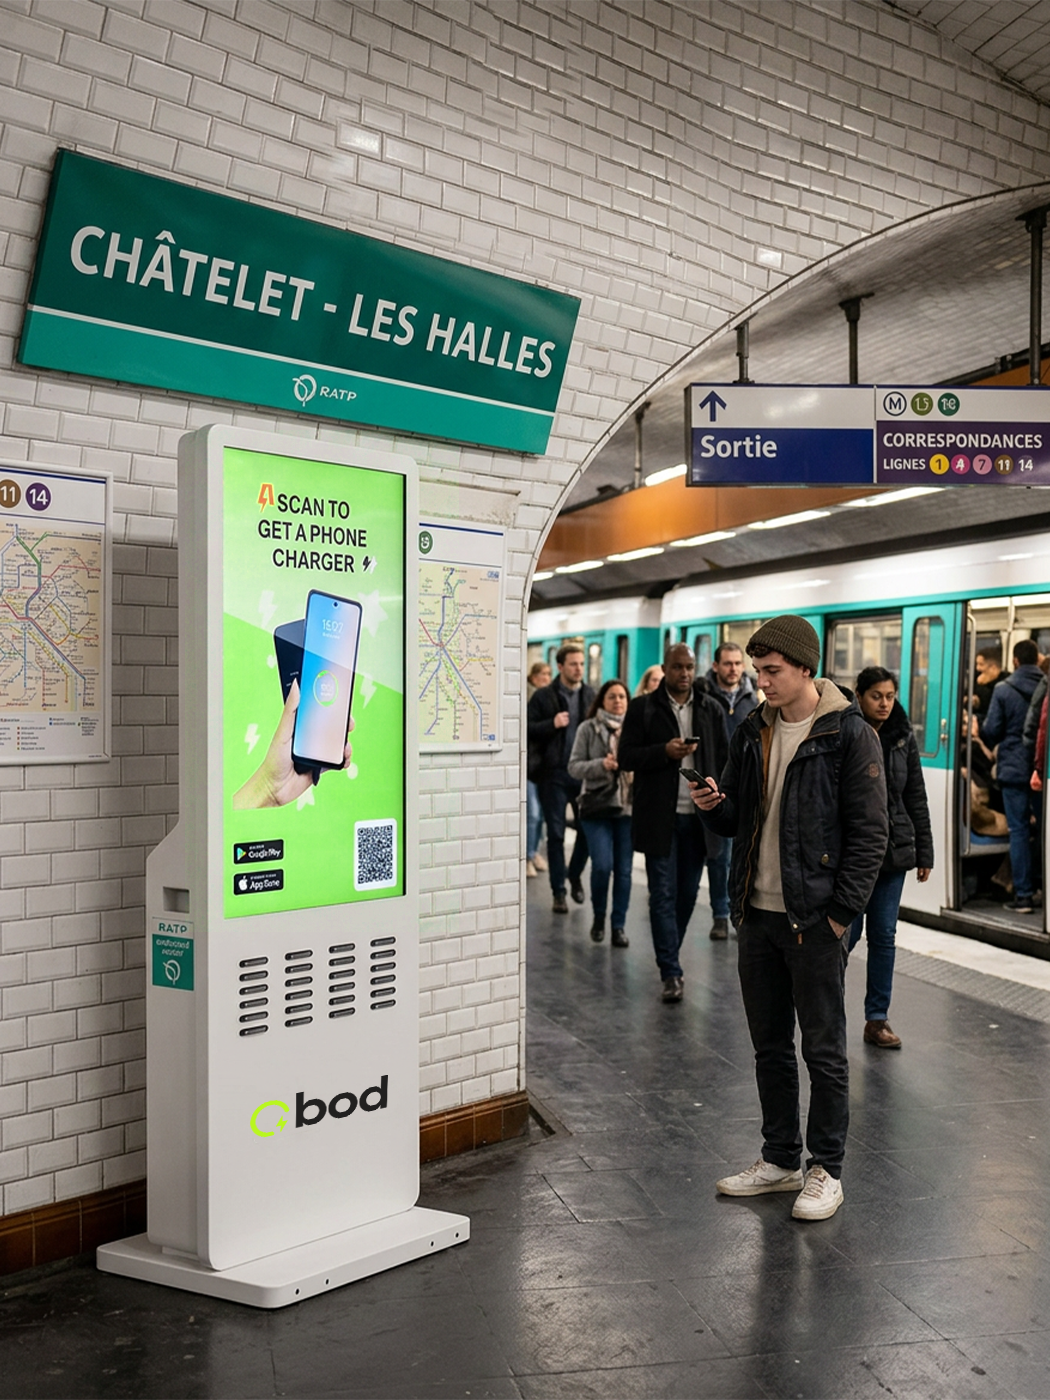
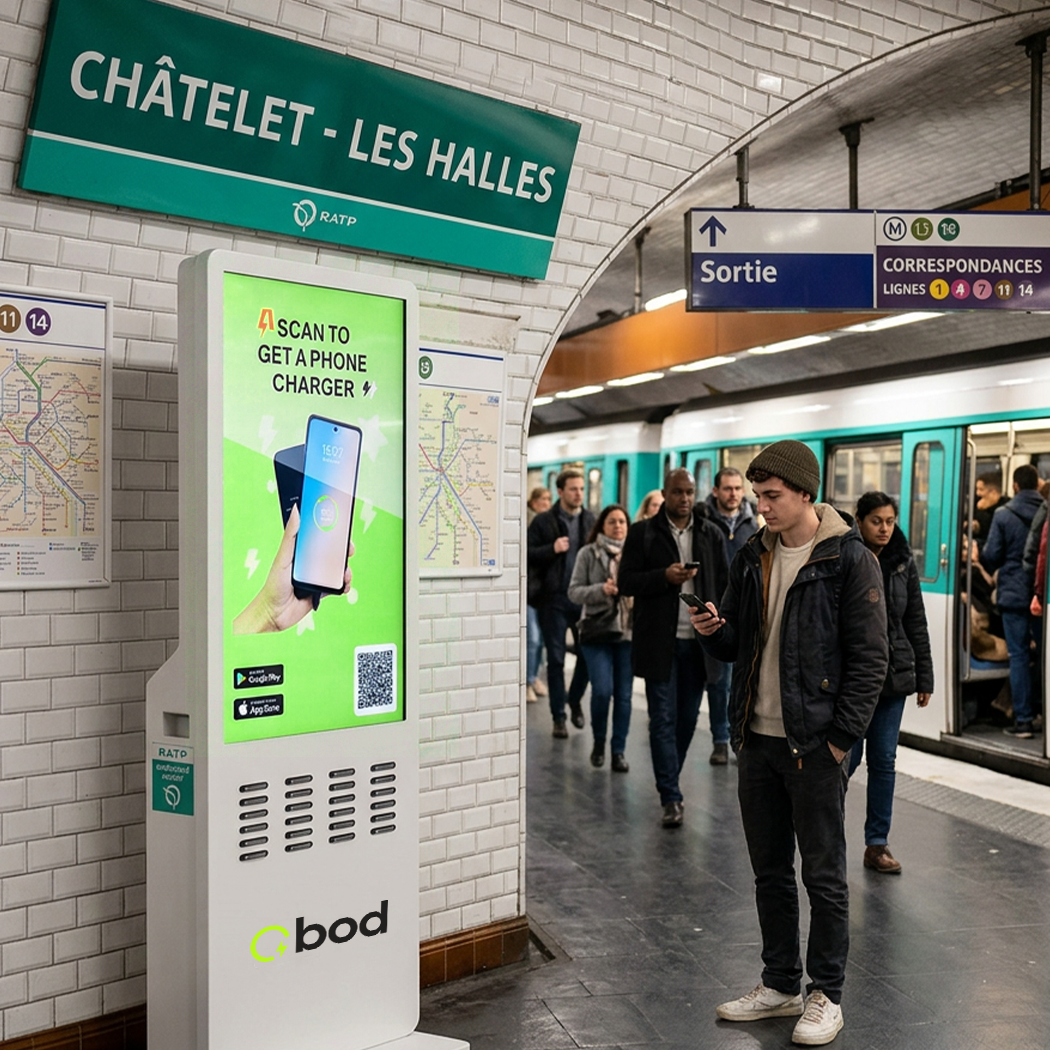
index: wipe blanc gauche→droite sur hero, station-metro croppée carré

diff --git a/index.html b/index.html
@@ -29,13 +29,11 @@
   .material-symbols-outlined { font-variation-settings: 'FILL' 0, 'wght' 400, 'GRAD' 0, 'opsz' 24; }
   body { font-family: 'Inter', sans-serif; background-color: #fbf9f8; }
   .glass-nav { backdrop-filter: blur(20px); -webkit-backdrop-filter: blur(20px); }
-  .hero-img-default { position:absolute;inset:0;width:100%;height:100%;object-fit:cover;transform-origin:50% 15%;transition:transform 0.25s ease, opacity 0.15s ease; }
-  .hero-img-reveal { position:absolute;top:0;left:0;height:100%;width:0;overflow:hidden;transition:width 0.05s; }
+  .hero-img-default { position:absolute;inset:0;width:100%;height:100%;object-fit:cover; }
+  .hero-img-reveal { position:absolute;top:0;left:0;height:100%;width:0;overflow:hidden;border-right:2px solid rgba(255,255,255,0.85);transition:width 0.3s ease; }
   .hero-img-hover { position:absolute;top:0;left:0;height:100%;object-fit:cover; }
-  @keyframes zoom-fade { 0%{transform:scale(1);opacity:1;} 100%{transform:scale(2.8);opacity:0;} }
-  @keyframes slide-reveal { from{width:0%;} to{width:100%;} }
-  .hero-img-wrap:hover .hero-img-default { animation:zoom-fade 0.55s ease forwards; }
-  .hero-img-wrap:hover .hero-img-reveal { animation:slide-reveal 0.4s cubic-bezier(0.4,0,0.2,1) 0.38s both; }
+  @keyframes wipe-white { from{width:0%;} to{width:100%;border-right-color:transparent;} }
+  .hero-img-wrap:hover .hero-img-reveal { animation:wipe-white 0.55s ease-in-out forwards; }
 
   /* Animations */
   @keyframes fadeUp {
@@ -555,7 +553,7 @@
 </script>
 
 <script>
-  // Hero image reveal — fix width to container (same as BA slider)
+  // Fix hero reveal image width (must match container, not shrinking parent)
   const heroWrap = document.querySelector('.hero-img-wrap');
   const heroRevealImg = document.querySelector('.hero-img-hover');
   function fixHeroReveal() {
